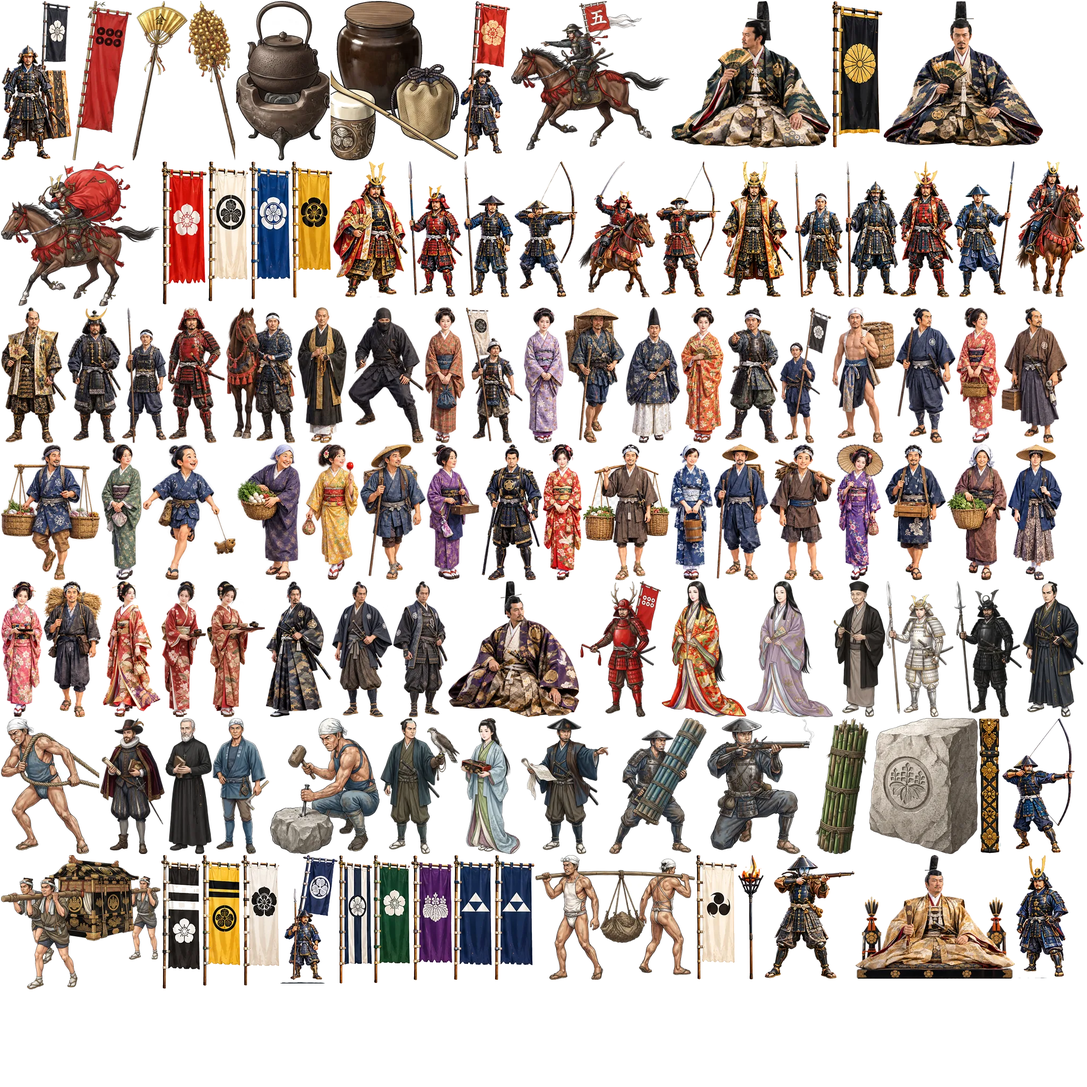
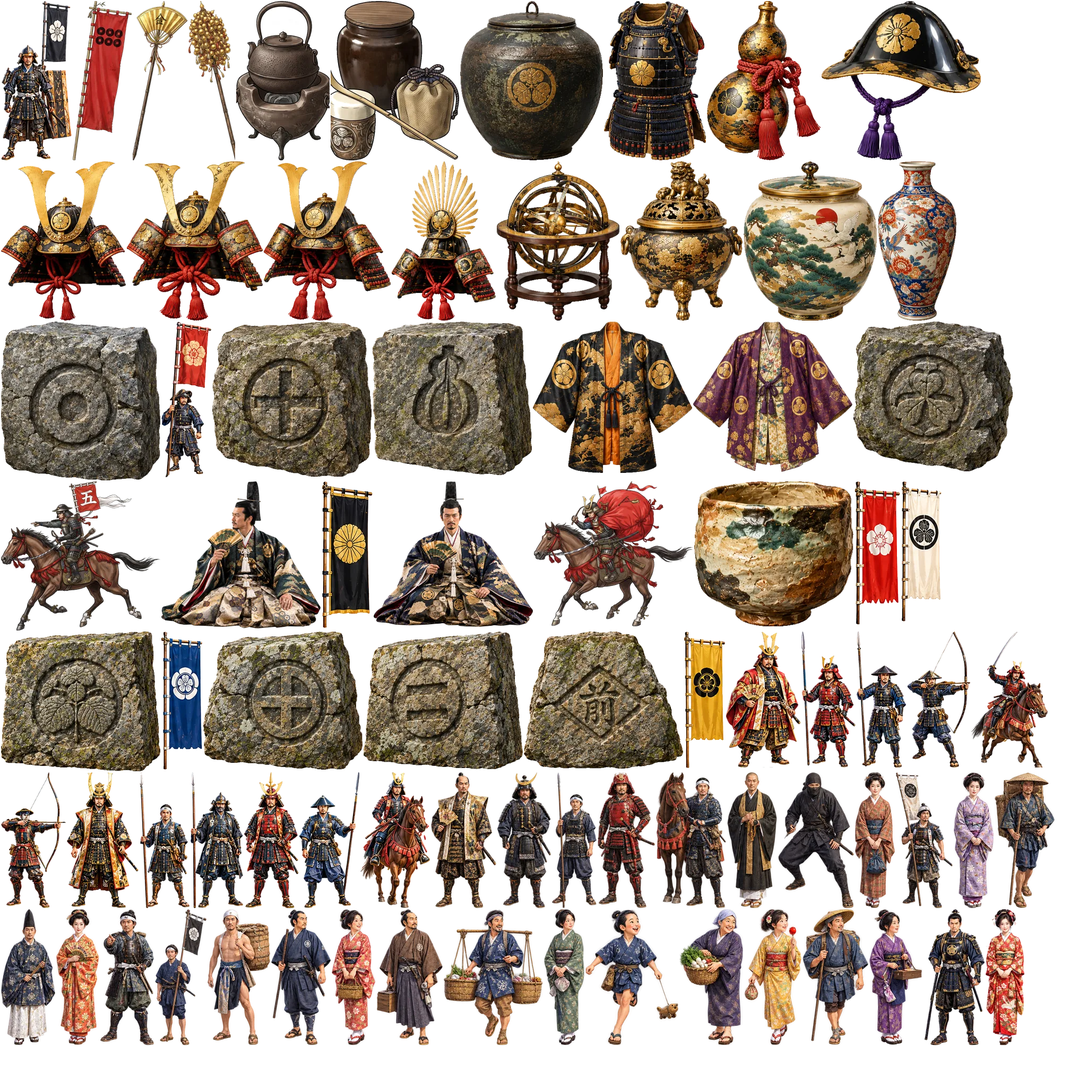
現代の天守閣の展示ケースに展示品36点（屏風・掛軸・絵巻・文書・兜・具足・陣羽織・刀・鉄砲・茶道具・壺・乗物など）、極楽橋の先に刻印石広場（刻印石12点）
Claude-Session: https://claude.ai/code/session_01CbQDmY5EVodmwZ72hpont7

diff --git a/index.html b/index.html
@@ -1923,13 +1923,14 @@ function decorModern(T){ const F=T.FL,cx=T.cx,cz=T.cz;
   { const f=F[1]; /* 受付・売店・シアター */ bx(f,'wood',6,1.1,.9,cx-7,f.y+.55,cz+9,0,null,true); bx(f,'hall',6.2,.06,1.1,cx-7,f.y+1.12,cz+9);
     for(let k=0;k<4;k++){ const z=cz-9+k*3.4; bx(f,'wood',.9,1.8,3,cx-f.w/2+1.4,f.y+.9,z,0,null,true); for(let j=0;j<10;j++) bx(f,'noren',.22,.22,.22,cx-f.w/2+1.4+(rnd()-.5)*.4,f.y+.5+((j/5)|0)*.6+.12,z-1.2+(j%5)*.6,0,pick(FIG_COL)); }
     bx(f,'showcase',9,3.4,.08,cx,f.y+2.2,cz+f.d/2-.42); bx(f,'black',9.4,3.8,.06,cx,f.y+2.2,cz+f.d/2-.38); for(let k=0;k<3;k++) bx(f,'felt',8,.45,.6,cx,f.y+.22,cz+f.d/2-3.4-k*1.4,0,null,true); }
+  { const f=F[2]; /* 大名の乗物と旗の大きな展示ケース */ glassCase(f,cx-4,cz+6.2,4.4,2.2,1.9,0,.15); bx(f,'felt',4.2,.02,2,cx-4,f.y+.16,cz+6.2); }
   { const f=F[2]; /* 兜・陣羽織の試着コーナーと解説パネル */ armor(f,cx+9,cz-8,-Math.PI/2,'#7a2d24','#26406a'); armor(f,cx+9,cz-10.2,-Math.PI/2,'#2f4f3e','#c79f45'); armor(f,cx+9,cz-5.8,-Math.PI/2,'#3b3a52','#9c4126');
     bx(f,'kin',.08,2.6,5,cx+f.w/2-.5,f.y+1.6,cz-8,0); bx(f,'wood',2.4,.45,.5,cx+5.8,f.y+.22,cz-8,0,null,true);
     for(let k=0;k<5;k++) panel(f,cx-11+k*5.2,cz-f.d/2+.45,0,3.6,1.6); for(let k=0;k<3;k++) panel(f,cx-f.w/2+.45,cz-6+k*5.5,Math.PI/2,3.4,1.6); }
   for(const i of [3,4]){ const f=F[i]; /* 収蔵品の展示: 壁際の長い展示ケースと中央の独立ケース */
-    for(const sz of [-1,1]){ const z=cz+sz*(f.d/2-1.15); glassCase(f,cx-1,z,f.w-6,1.1,1.6,0,.6); for(let k=0;k<4;k++) byobu(f,cx-9+k*5.2,z,0,6,.7,1.3,'kin',false); }
+    for(const sz of [-1,1]){ const z=cz+sz*(f.d/2-1.15); glassCase(f,cx-1,z,f.w-6,1.1,1.6,0,.6); bx(f,'felt',f.w-6.2,.02,1,cx-1,f.y+.61,z); }
     for(const [x,z] of [[cx-9,cz-4.5],[cx-9,cz+4.5],[cx+8.5,cz-3]]){ if(i===3){ armor(f,x,z,0,pick(['#7a2d24','#2f4f3e','#3b3a52']),pick(['#c79f45','#26406a']),false); glassCase(f,x,z,1.4,1.4,2.3,0,.08); }
-      else { glassCase(f,x,z,2.6,1.2,1,0,.8); for(let k=0;k<3;k++){ bx(f,'black',2.2,.05,.06,x,f.y+.95+k*.22,z-.3+k*.3); bx(f,'gold',.18,.06,.08,x-.95,f.y+.95+k*.22,z-.3+k*.3); } } }
+      else { glassCase(f,x,z,2.6,1.2,1,0,.8); bx(f,'felt',2.4,.02,1,x,f.y+.81,z); } }
     bx(f,'scroll',1.3,3.2,.04,cx-f.w/2+.42,f.y+2,cz,Math.PI/2); }
   /* 3階・4階: 仕切り壁で展示室を区切り、天井からスポットライト */
   { const f=F[3]; for(const sx of [-1,1]){ bx(f,'mDark',.3,f.h-.4,9,cx+sx*6.6,f.y+(f.h-.4)/2,cz+1,0,null,true); for(let k=-1;k<=1;k++) panel(f,cx+sx*6.85,cz+1+k*3,Math.PI/2,2.2,1.4); }
@@ -2893,6 +2894,8 @@ const SPOTS=[
    toyo:{name:'本丸の唐門',kana:'からもん',text:'本丸の南の入口。このアプリでは、桃山時代らしい唐破風（からはふ）と彫刻、金の飾りを付けた門として再現しています。門の名前やかたちは想像を交えています。',meta:[['再現','想像を交えた復元']]}},
   {id:'takoishi',modernOnly:true,name:'蛸石',kana:'たこいし',at:[-6,62],pos:[-6,74],look:[-6,2.6,56],q:'Takoishi Osaka Castle',
    text:'桜門をくぐった枡形の正面に据えられた、城内で最も大きな石。表面積は畳約36枚分、重さは推定約108トンといわれます。徳川幕府による大坂城の再築の際、備前岡山藩主の池田忠雄が運んだと伝わります。',meta:[['大きさ','畳約36枚分'],['重さ','推定約108トン']]},
+  {id:'kokuin',modernOnly:true,name:'刻印石広場',kana:'こくいんせきひろば',at:[20,-162],pos:[20,-144],look:[20,1.2,-162],q:'Kokuin stone Osaka Castle',
+   text:'極楽橋を渡った先にある広場。徳川幕府が大坂城を築き直したとき（1620〜1629年）、石垣の石は西国などの大名が分担して運び、自分の石だと分かるように印（刻印）を刻みました。ここには、使われずに残った刻印のある石が集められています。○・◎・十字・扇・瓢箪・文字など、印の形は大名ごとにさまざまです。今も城内の石垣のあちこちで刻印を探すことができます。',meta:[['刻印','大名ごとの石の目印'],['時代','徳川の再築（1620〜29年）'],['ほかの見どころ','桜門枡形の蛸石（池田家）・大手門枡形の巨石（加藤家）']]},
   {id:'gokuraku',name:'極楽橋',kana:'ごくらくばし',at:[-24,-116],pos:[-24,-140],look:[-24,1,-110],q:'Gokuraku-bashi Osaka Castle',
    text:'本丸の北側、山里丸と二の丸を結ぶ橋。内堀越しに見上げる天守閣の眺めで人気の場所です。',meta:[['結ぶ所','山里丸 ⇄ 二の丸'],['見どころ','堀越しの天守閣']],
    toyo:{text:'豊臣期の極楽橋は、屋根や唐破風を備えた豪華な橋だったと伝わります。のちに琵琶湖の竹生島（ちくぶしま）へ移され、宝厳寺の唐門になったという説もあります。',meta:[['姿','屋根付きの橋（想像復元）']]}},
@@ -3211,7 +3214,7 @@ addEventListener('resize',sizePost); $('tQual').addEventListener('click',sizePos
 }
 
 /* ================= 切り抜き画像（スプライト）: 人物・装飾品をアトラス画像から並べる ================= */
-const ATLAS_META={"size":2048,"pages":3,"s":{"g_nobori":[0,2,2,133,300,3.0],"nb_rokumon":[0,137,2,111,300,4.2],"kinsen":[0,250,2,103,300,4.2],"sennari":[0,355,2,88,300,4.2],"kama":[0,445,2,176,300,0.35],"chaire":[0,623,2,242,300,0.22],"t_nobori":[0,867,2,94,293,3.4],"tsukaiban":[0,963,2,300,281,2.7],"lord_green":[0,1265,2,300,277,1.25],"nb_black":[0,1567,2,96,276,4.2],"lord_navy":[0,1665,2,300,274,1.25],"horo":[0,2,304,300,273,2.7],"nb_white":[0,304,304,86,270,4.2],"nb_red":[0,392,304,76,264,4.2],"nb_blue":[0,470,304,77,260,4.2],"nb_yellow":[0,549,304,77,257,4.2],"t_hideyori":[0,628,304,140,256,1.75],"t_bushou":[0,770,304,102,256,1.8],"t_yari":[0,874,304,93,256,1.75],"t_yumi":[0,969,304,119,256,1.8],"t_uma":[0,1090,304,144,256,2.5],"r_yumi":[0,1236,304,122,256,1.8],"taisho":[0,1360,304,135,256,1.85],"y_hb":[0,1497,304,94,256,1.75],"y_dark":[0,1593,304,99,256,1.8],"r_bushou":[0,1694,304,102,256,1.85],"ashigaru":[0,1798,304,113,256,1.75],"r_kiba":[0,1913,304,131,256,2.6],"p_lord":[0,2,579,123,256,1.75],"p_kabuto":[0,127,579,101,256,1.8],"p_yari":[0,230,579,84,256,1.75],"p_red":[0,316,579,108,256,1.8],"p_horse":[0,426,579,132,256,2.3],"p_monk":[0,560,579,94,256,1.75],"p_ninja":[0,656,579,143,256,1.6],"p_woman":[0,801,579,75,256,1.6],"p_flag":[0,878,579,107,256,2.6],"p_lav":[0,987,579,75,256,1.6],"p_porter":[0,1064,579,113,256,1.7],"p_noble":[0,1179,579,102,256,1.8],"p_orange":[0,1283,579,81,256,1.6],"p_point":[0,1366,579,101,256,1.75],"p_flagboy":[0,1469,579,97,256,2.4],"p_naked":[0,1568,579,118,256,1.7],"q_ronin":[0,1688,579,112,256,1.75],"q_redw":[0,1802,579,83,256,1.6],"q_merchant":[0,1887,579,124,256,1.75],"q_yoke":[0,2,837,187,256,1.7],"q_green":[0,191,837,76,256,1.6],"q_child":[0,269,837,175,256,1.1],"q_oldw":[0,446,837,120,256,1.5],"q_girl":[0,568,837,108,256,1.45],"q_traveler":[0,678,837,124,256,1.75],"q_purple":[0,804,837,100,256,1.6],"w_samurai":[0,906,837,115,256,1.8],"w_red":[0,1023,837,73,256,1.6],"w_yoke":[0,1098,837,163,256,1.7],"w_bucket":[0,1263,837,80,256,1.55],"w_traveler":[0,1345,837,103,256,1.8],"w_boy":[0,1450,837,124,256,1.3],"w_umbrella":[0,1576,837,90,256,1.7],"w_box":[0,1668,837,114,256,1.7],"w_oldw":[0,1784,837,113,256,1.5],"w_youth":[0,1899,837,102,256,1.75],"w_tray":[0,2,1095,78,256,1.6],"w_straw":[0,82,1095,110,256,1.75],"lady_walk":[0,194,1095,108,256,1.62],"lady_tray":[0,304,1095,84,256,1.6],"lady_tray2":[0,390,1095,109,256,1.6],"sam_kami":[0,501,1095,123,256,1.8],"sam_haori":[0,626,1095,113,256,1.8],"sam_armor":[0,741,1095,102,256,1.8],"lord_purple":[0,845,1095,246,256,1.25],"sanada":[0,1093,1095,152,256,2.3],"yodo":[0,1247,1095,159,256,1.62],"nene":[0,1408,1095,161,256,1.6],"rikyu":[0,1571,1095,97,256,1.68],"kimura":[0,1670,1095,126,256,2.35],"goto":[0,1798,1095,127,256,2.3],"mitsunari":[0,1927,1095,114,256,1.75],"ishibiki":[0,2,1353,185,256,1.55],"nanban":[0,189,1353,121,256,1.85],"frois":[0,312,1353,87,256,1.75],"touryou":[0,401,1353,106,256,1.72],"ishiku":[0,509,1353,206,256,1.25],"takajo":[0,717,1353,149,256,1.75],"jijo":[0,868,1353,112,256,1.6],"bugyo":[0,982,1353,164,256,1.8],"taketaba_a":[0,1148,1353,183,256,1.75],"teppo_k":[0,1333,1353,201,256,1.3],"taketaba":[0,1536,1353,100,256,2.0],"kokuin":[0,1638,1353,204,256,1.0],"pillar_k":[0,1844,1353,42,255,2.4],"k_yumi":[0,1888,1353,137,254,1.8],"kago":[0,2,1611,300,253,2.0],"nb_stripe":[0,304,1611,74,252,4.2],"nb_yel2":[0,380,1611,73,246,4.2],"nb_white2":[0,455,1611,71,246,4.2],"k_nobori":[0,528,1611,108,242,3.4],"nb_green2":[0,638,1611,63,242,4.2],"nb_navyw":[0,703,1611,70,241,4.2],"nb_purple":[0,775,1611,78,236,4.2],"nb_tomoe":[0,855,1611,75,236,4.2],"nb_navy":[0,932,1611,75,236,4.2],"mokko":[0,1009,1611,300,235,1.75],"nb_cross":[0,1311,1611,78,234,4.2],"torch_pole":[0,1391,1611,48,234,2.2],"teppo_a":[0,1441,1611,169,233,1.65],"hideyoshi":[0,1612,1611,300,233,1.3],"k_bushou":[0,1914,1611,99,232,1.8],"nb_green":[1,2,2,71,231,4.2],"nobori_pair":[1,75,2,133,229,3.0],"k_ieyasu":[1,210,2,156,228,1.3],"nb_white_k":[1,368,2,101,227,4],"toro4":[1,471,2,93,227,2.0],"nobori_kid":[1,566,2,71,225,2.8],"kasa":[1,639,2,174,225,2.6],"kuge":[1,815,2,86,224,1.85],"toro2":[1,903,2,70,224,1.9],"k_uma":[1,975,2,178,223,2.5],"onna_musha":[1,1155,2,70,223,1.65],"t_monk":[1,1227,2,102,222,1.75],"k_yari":[1,1331,2,101,217,1.75],"yagura_w":[1,1434,2,124,217,4.5],"toro1":[1,1560,2,56,217,0.9],"yagura_flag":[1,1618,2,120,214,6],"by_pine":[1,2,235,314,214,1.7],"by_sakura":[1,318,235,277,214,1.7],"armor":[1,597,235,110,213,1.5],"toro3":[1,709,235,132,213,2.2],"taore":[1,843,235,300,212,0.75],"samurai_p":[1,1145,235,97,211,1.75],"samurai_a":[1,1244,235,112,211,1.75],"by_crane":[1,1358,235,253,210,1.7],"by_iris":[1,1613,235,190,209,1.7],"samurai_b":[1,1805,235,86,208,1.75],"by_tiger":[1,2,451,180,208,1.7],"chawan":[1,184,451,300,206,0.09],"by_kiri":[1,486,451,224,205,1.7],"t_taitsutsu":[1,712,451,112,204,1.75],"umajirushi":[1,826,451,122,203,3.0],"kagaribi2":[1,950,451,55,202,1.7],"kakejiku":[1,1007,451,77,201,1.6],"t_teppo":[1,1086,451,163,200,1.7],"bell":[1,1251,451,103,200,2.4],"musume_r":[1,1356,451,63,198,1.6],"yari_pair":[1,1421,451,124,197,1.75],"houou":[1,1547,451,196,196,1.4],"yari_a":[1,1745,451,89,194,1.8],"tabisou":[1,1836,451,88,193,1.8],"kuge_g":[1,1926,451,88,193,1.8],"uma_rider":[1,2,661,162,187,2.3],"yagura":[1,166,661,117,187,6],"lan_white":[1,285,661,84,186,0.8],"kabuto":[1,371,661,127,185,0.6],"maku_r":[1,500,661,93,184,1.6],"maku_w":[1,595,661,98,183,1.6],"maku_p":[1,695,661,101,182,1.6],"k_monk":[1,798,661,96,181,1.75],"onna_b":[1,896,661,70,181,1.6],"andon_g":[1,968,661,91,181,0.85],"kagaribi":[1,1061,661,52,179,1.7],"saku":[1,1115,661,199,179,2.2],"lan_red":[1,1316,661,71,178,0.8],"koshi":[1,1389,661,237,178,1.8],"shoji":[1,1628,661,260,177,1.8],"lan_tomoe":[1,1890,661,65,176,0.8],"k_teppo":[1,2,850,153,175,1.7],"shonin":[1,157,850,85,174,1.7],"taiko":[1,244,850,107,170,1.5],"fs_castle":[1,353,850,284,170,1.8],"fs_ume":[1,639,850,241,170,1.8],"fs_pine":[1,882,850,271,170,1.8],"chochin":[1,1155,850,81,170,1.2],"workers":[1,1238,850,211,169,1.8],"okami_p":[1,1451,850,59,169,1.6],"jin_gate":[1,1512,850,219,168,3.4],"teppo_line":[1,1733,850,281,167,1.7],"ninpu":[1,2,1027,72,167,1.65],"oni2":[1,76,1027,187,164,1.0],"ikebana":[1,265,1027,110,163,0.7],"cannon_c":[1,377,1027,275,162,1.9],"roujin":[1,654,1027,85,162,1.65],"andon":[1,741,1027,81,162,0.9],"onigawara":[1,824,1027,187,162,1.2],"wara":[1,1013,1027,91,161,1.7],"miko":[1,1106,1027,61,159,1.6],"bonsai":[1,1169,1027,147,159,0.6],"ishiyama":[1,1318,1027,300,159,1.6],"k_captain":[1,1620,1027,106,158,1.75],"cart":[1,1728,1027,203,158,1.9],"maru_mado":[1,2,1196,152,158,1.2],"log":[1,156,1196,106,155,1.6],"lan_small":[1,264,1196,45,153,1.3],"kg_pair":[1,311,1196,75,152,0.9],"bows":[1,388,1196,70,149,2.0],"mon_board":[1,460,1196,192,149,1.6],"t_yuso":[1,654,1196,204,148,1.9],"gold_uma":[1,860,1196,77,148,2.6],"cabinet":[1,939,1196,101,146,1.0],"ryu_c":[1,1042,1196,197,145,1.0],"t_ninja":[1,1241,1196,122,144,1.4],"ryu":[1,1365,1196,216,144,1.2],"by_small":[1,1583,1196,186,143,1.2],"k_ninja":[1,1771,1196,121,142,1.4],"shelf":[1,1894,1196,146,142,0.9],"shishi":[1,2,1356,167,142,1.2],"saru":[1,171,1356,169,142,0.8],"jar":[1,342,1356,89,141,0.55],"taka":[1,433,1356,92,141,0.7],"t_hoju":[1,527,1356,155,140,1.9],"spears":[1,684,1356,11,140,2.6],"jinmaku":[1,697,1356,300,138,1.8],"vase":[1,999,1356,72,137,0.55],"shura":[1,1073,1356,300,132,1.6],"saku_w":[1,1375,1356,300,131,2.0],"arrows":[1,1677,1356,31,131,1.1],"chest":[1,1710,1356,183,131,0.6],"shishi_c":[1,1895,1356,119,131,0.8],"hana_c":[1,2,1500,128,130,0.8],"ogi":[1,132,1500,190,129,0.55],"houou_c":[1,324,1500,122,129,0.8],"sakamogi":[1,448,1500,300,127,1.7],"tora_c":[1,750,1500,157,127,0.8],"k_hoju":[1,909,1500,236,126,1.8],"k_kago":[1,1147,1500,174,125,2.1],"kodomo":[1,1323,1500,59,125,1.2],"kg_t":[1,1384,1500,35,124,0.9],"kg_pair2":[1,1421,1500,75,124,0.9],"taka_c":[1,1498,1500,143,124,0.8],"rail_k":[1,1643,1500,216,123,0.9],"oni5":[1,2,1632,188,122,0.7],"k_zouhei":[1,192,1632,159,121,1.7],"k_tate":[1,353,1632,176,121,2.2],"box_l":[1,531,1632,150,121,0.5],"kg_door":[1,683,1632,76,121,1.0],"ozutsu":[1,761,1632,300,121,1.4],"guns":[1,1063,1632,85,120,1.6],"machishu":[1,1150,1632,138,117,1.7],"oni6":[1,1290,1632,185,117,0.65],"cannon":[1,1477,1632,199,116,1.1],"k_yuso":[1,1678,1632,140,115,1.9],"kg_plate":[1,1820,1632,65,115,0.8],"flags2":[1,1887,1632,86,114,1.6],"kg_t2":[1,1975,1632,39,114,0.9],"chest_m":[1,2,1756,159,113,0.6],"cart2":[1,163,1756,155,112,1.8],"kadomatsu":[1,320,1756,55,112,1.2],"incense":[1,377,1756,73,111,0.6],"tassel":[1,452,1756,77,111,0.6],"dais":[1,531,1756,158,109,1.2],"oni3":[1,691,1756,161,109,0.8],"pot":[1,854,1756,102,108,0.7],"kouro":[1,958,1756,124,106,0.4],"crane_c":[1,1084,1756,205,105,0.9],"rail_k2":[1,1291,1756,239,104,0.8],"rail_r":[1,1532,1756,186,100,0.8],"kg_panel":[1,1720,1756,127,100,0.8],"lowtable":[1,2,1871,271,97,0.35],"shogi":[1,275,1871,120,97,0.5],"chest_r":[1,397,1871,142,96,0.7],"fence_r":[1,541,1871,157,95,0.9],"barrels":[1,700,1871,150,94,1.2],"kin_byobu":[1,852,1871,130,94,1.4],"chaki":[1,984,1871,165,94,0.25],"table":[1,1151,1871,240,93,0.35],"crates":[1,1393,1871,151,92,1.1],"tray_r":[1,1546,1871,170,91,0.25],"oni4":[1,1718,1871,161,88,0.55],"drumbox":[1,1881,1871,64,87,0.6],"tawara":[1,1947,1871,82,86,0.55],"box_s":[2,2,2,123,86,0.3],"kome":[2,127,2,125,85,1.2],"mon_hana":[2,254,2,82,84,0.6],"oni7":[2,338,2,66,83,0.5],"oni8":[2,406,2,56,83,0.5],"mon_d":[2,464,2,81,82,0.6],"trunk":[2,547,2,114,81,0.6],"mon_sakura":[2,663,2,81,81,0.6],"chest_k":[2,746,2,123,79,0.7],"mon_a":[2,871,2,79,79,0.6],"mon_tomoe":[2,952,2,78,79,0.6],"zabuton_g":[2,1032,2,103,76,0.15],"ranma3":[2,1137,2,512,76,0.6],"mon_c":[2,1651,2,75,76,0.6],"mon_kiku":[2,1728,2,75,76,0.6],"mon_mokko":[2,1805,2,76,76,0.6],"ranma4":[2,2,90,512,75,0.6],"mon_hishi":[2,516,90,75,75,0.6],"bucket":[2,593,90,58,73,0.5],"zabuton_r":[2,653,90,136,73,0.15],"ranma1":[2,791,90,512,73,0.7],"zabuton_p":[2,1305,90,98,71,0.15],"mon_b":[2,1405,90,77,71,0.6],"kg_h":[2,1484,90,172,70,0.35],"ranma2":[2,2,167,512,67,0.6],"ranma7":[2,516,167,265,66,0.45],"ranma8":[2,783,167,270,66,0.45],"ranma5":[2,1055,167,266,65,0.45],"ranma6":[2,1323,167,270,65,0.45],"kumo_c":[2,1595,167,127,64,0.45],"stool":[2,1724,167,94,58,0.45],"kg_h2":[2,1820,167,170,45,0.3],"kg_stud":[2,1992,167,36,39,0.14],"noki_end":[2,2,236,152,37,0.25],"kg_stud3":[2,156,236,34,35,0.14],"kg_stud2":[2,192,236,31,31,0.12]}};
+const ATLAS_META={"size":2048,"pages":3,"s":{"g_nobori":[0,2,2,133,300,3.0],"nb_rokumon":[0,137,2,111,300,4.2],"kinsen":[0,250,2,103,300,4.2],"sennari":[0,355,2,88,300,4.2],"kama":[0,445,2,176,300,0.35],"chaire":[0,623,2,242,300,0.22],"ex_chatsubo":[0,867,2,269,300,0.42],"ex_do":[0,1138,2,192,300,0.7],"ex_hyotan":[0,1332,2,214,300,0.38],"ex_jingasa":[0,1548,2,300,300,0.32],"ex_kabuto1":[0,2,304,235,300,0.55],"ex_kabuto2":[0,239,304,256,300,0.55],"ex_kabuto3":[0,497,304,239,300,0.55],"ex_kabuto_bariin":[0,738,304,196,300,0.62],"ex_konten":[0,936,304,231,300,0.55],"ex_kouro":[0,1169,304,230,300,0.42],"ex_tsubo_matsu":[0,1401,304,251,300,0.42],"ex_vase_imari":[0,1654,304,148,300,0.5],"ki_maru":[0,2,606,300,299,1.1],"t_nobori":[0,304,606,94,293,3.4],"ki_jumonji":[0,400,606,300,292,1.1],"ki_hyotan":[0,702,606,300,289,1.1],"ex_jinbaori1":[0,1004,606,300,285,0.95],"ex_jinbaori2":[0,1306,606,300,283,0.95],"ki_kashiwa":[0,1608,606,300,282,1.1],"tsukaiban":[0,2,907,300,281,2.7],"lord_green":[0,304,907,300,277,1.25],"nb_black":[0,606,907,96,276,4.2],"lord_navy":[0,704,907,300,274,1.25],"horo":[0,1006,907,300,273,2.7],"ex_chawan_oribe":[0,1308,907,300,273,0.16],"nb_white":[0,1610,907,86,270,4.2],"nb_red":[0,1698,907,76,264,4.2],"ki_kiri":[0,2,1190,300,263,1.1],"nb_blue":[0,304,1190,77,260,4.2],"ki_jumonji2":[0,383,1190,300,260,1.1],"ki_nibiki":[0,685,1190,300,259,1.1],"ki_mae":[0,987,1190,300,258,1.1],"nb_yellow":[0,1289,1190,77,257,4.2],"t_hideyori":[0,1368,1190,140,256,1.75],"t_bushou":[0,1510,1190,102,256,1.8],"t_yari":[0,1614,1190,93,256,1.75],"t_yumi":[0,1709,1190,119,256,1.8],"t_uma":[0,1830,1190,144,256,2.5],"r_yumi":[0,2,1455,122,256,1.8],"taisho":[0,126,1455,135,256,1.85],"y_hb":[0,263,1455,94,256,1.75],"y_dark":[0,359,1455,99,256,1.8],"r_bushou":[0,460,1455,102,256,1.85],"ashigaru":[0,564,1455,113,256,1.75],"r_kiba":[0,679,1455,131,256,2.6],"p_lord":[0,812,1455,123,256,1.75],"p_kabuto":[0,937,1455,101,256,1.8],"p_yari":[0,1040,1455,84,256,1.75],"p_red":[0,1126,1455,108,256,1.8],"p_horse":[0,1236,1455,132,256,2.3],"p_monk":[0,1370,1455,94,256,1.75],"p_ninja":[0,1466,1455,143,256,1.6],"p_woman":[0,1611,1455,75,256,1.6],"p_flag":[0,1688,1455,107,256,2.6],"p_lav":[0,1797,1455,75,256,1.6],"p_porter":[0,1874,1455,113,256,1.7],"p_noble":[0,2,1713,102,256,1.8],"p_orange":[0,106,1713,81,256,1.6],"p_point":[0,189,1713,101,256,1.75],"p_flagboy":[0,292,1713,97,256,2.4],"p_naked":[0,391,1713,118,256,1.7],"q_ronin":[0,511,1713,112,256,1.75],"q_redw":[0,625,1713,83,256,1.6],"q_merchant":[0,710,1713,124,256,1.75],"q_yoke":[0,836,1713,187,256,1.7],"q_green":[0,1025,1713,76,256,1.6],"q_child":[0,1103,1713,175,256,1.1],"q_oldw":[0,1280,1713,120,256,1.5],"q_girl":[0,1402,1713,108,256,1.45],"q_traveler":[0,1512,1713,124,256,1.75],"q_purple":[0,1638,1713,100,256,1.6],"w_samurai":[0,1740,1713,115,256,1.8],"w_red":[0,1857,1713,73,256,1.6],"w_yoke":[1,2,2,163,256,1.7],"w_bucket":[1,167,2,80,256,1.55],"w_traveler":[1,249,2,103,256,1.8],"w_boy":[1,354,2,124,256,1.3],"w_umbrella":[1,480,2,90,256,1.7],"w_box":[1,572,2,114,256,1.7],"w_oldw":[1,688,2,113,256,1.5],"w_youth":[1,803,2,102,256,1.75],"w_tray":[1,907,2,78,256,1.6],"w_straw":[1,987,2,110,256,1.75],"lady_walk":[1,1099,2,108,256,1.62],"lady_tray":[1,1209,2,84,256,1.6],"lady_tray2":[1,1295,2,109,256,1.6],"sam_kami":[1,1406,2,123,256,1.8],"sam_haori":[1,1531,2,113,256,1.8],"sam_armor":[1,1646,2,102,256,1.8],"lord_purple":[1,1750,2,246,256,1.25],"sanada":[1,2,260,152,256,2.3],"yodo":[1,156,260,159,256,1.62],"nene":[1,317,260,161,256,1.6],"rikyu":[1,480,260,97,256,1.68],"kimura":[1,579,260,126,256,2.35],"goto":[1,707,260,127,256,2.3],"mitsunari":[1,836,260,114,256,1.75],"ishibiki":[1,952,260,185,256,1.55],"nanban":[1,1139,260,121,256,1.85],"frois":[1,1262,260,87,256,1.75],"touryou":[1,1351,260,106,256,1.72],"ishiku":[1,1459,260,206,256,1.25],"takajo":[1,1667,260,149,256,1.75],"jijo":[1,1818,260,112,256,1.6],"bugyo":[1,2,518,164,256,1.8],"taketaba_a":[1,168,518,183,256,1.75],"teppo_k":[1,353,518,201,256,1.3],"taketaba":[1,556,518,100,256,2.0],"kokuin":[1,658,518,204,256,1.0],"ex_hata":[1,864,518,130,256,1.6],"ex_hideyoshi_zo":[1,996,518,157,256,1.5],"ex_kakejiku_castle":[1,1155,518,128,256,1.5],"pillar_k":[1,1285,518,42,255,2.4],"k_yumi":[1,1329,518,137,254,1.8],"ki_umebachi":[1,1468,518,300,254,1.1],"kago":[1,2,776,300,253,2.0],"nb_stripe":[1,304,776,74,252,4.2],"ex_chawan_gold":[1,380,776,270,248,0.16],"nb_yel2":[1,652,776,73,246,4.2],"nb_white2":[1,727,776,71,246,4.2],"ex_sensu_kiri":[1,800,776,300,245,0.32],"ex_kawara":[1,1102,776,300,244,0.3],"k_nobori":[1,1404,776,108,242,3.4],"nb_green2":[1,1514,776,63,242,4.2],"nb_navyw":[1,1579,776,70,241,4.2],"ex_sensu_tsuru":[1,1651,776,300,239,0.32],"ex_monjo":[1,2,1031,300,237,0.3],"ki_naka":[1,304,1031,300,237,1.1],"ki_uroko":[1,606,1031,300,237,1.1],"nb_purple":[1,908,1031,78,236,4.2],"nb_tomoe":[1,988,1031,75,236,4.2],"nb_navy":[1,1065,1031,75,236,4.2],"ki_sanbo":[1,1142,1031,300,236,1.1],"mokko":[1,1444,1031,300,235,1.75],"nb_cross":[1,1746,1031,78,234,4.2],"torch_pole":[1,1826,1031,48,234,2.2],"teppo_a":[1,1876,1031,169,233,1.65],"hideyoshi":[1,2,1270,300,233,1.3],"k_bushou":[1,304,1270,99,232,1.8],"nb_green":[1,405,1270,71,231,4.2],"nobori_pair":[1,478,1270,133,229,3.0],"k_ieyasu":[1,613,1270,156,228,1.3],"ex_hako_tsuru":[1,771,1270,300,228,0.4],"nb_white_k":[1,1073,1270,101,227,4],"toro4":[1,1176,1270,93,227,2.0],"nobori_kid":[1,1271,1270,71,225,2.8],"kasa":[1,1344,1270,174,225,2.6],"kuge":[1,1520,1270,86,224,1.85],"toro2":[1,1608,1270,70,224,1.9],"k_uma":[1,1680,1270,178,223,2.5],"onna_musha":[1,1860,1270,70,223,1.65],"t_monk":[1,1932,1270,102,222,1.75],"ex_byobu_castle":[1,2,1505,300,219,1.25],"k_yari":[1,304,1505,101,217,1.75],"yagura_w":[1,407,1505,124,217,4.5],"toro1":[1,533,1505,56,217,0.9],"yagura_flag":[1,591,1505,120,214,6],"by_pine":[1,713,1505,314,214,1.7],"by_sakura":[1,1029,1505,277,214,1.7],"armor":[1,1308,1505,110,213,1.5],"toro3":[1,1420,1505,132,213,2.2],"taore":[1,1554,1505,300,212,0.75],"samurai_p":[1,1856,1505,97,211,1.75],"samurai_a":[1,2,1726,112,211,1.75],"by_crane":[1,116,1726,253,210,1.7],"ex_hako_kiri":[1,371,1726,300,210,0.38],"by_iris":[1,673,1726,190,209,1.7],"samurai_b":[1,865,1726,86,208,1.75],"by_tiger":[1,953,1726,180,208,1.7],"chawan":[1,1135,1726,300,206,0.09],"by_kiri":[1,1437,1726,224,205,1.7],"t_taitsutsu":[1,1663,1726,112,204,1.75],"umajirushi":[1,1777,1726,122,203,3.0],"kagaribi2":[1,1901,1726,55,202,1.7],"kakejiku":[1,1958,1726,77,201,1.6],"t_teppo":[2,2,2,163,200,1.7],"bell":[2,167,2,103,200,2.4],"musume_r":[2,272,2,63,198,1.6],"ex_byobu_sakura":[2,337,2,300,198,1.25],"yari_pair":[2,639,2,124,197,1.75],"houou":[2,765,2,196,196,1.4],"yari_a":[2,963,2,89,194,1.8],"tabisou":[2,1054,2,88,193,1.8],"kuge_g":[2,1144,2,88,193,1.8],"ex_byobu_castle2":[2,1234,2,300,189,1.25],"uma_rider":[2,1536,2,162,187,2.3],"yagura":[2,1700,2,117,187,6],"lan_white":[2,1819,2,84,186,0.8],"kabuto":[2,1905,2,127,185,0.6],"maku_r":[2,2,204,93,184,1.6],"maku_w":[2,97,204,98,183,1.6],"maku_p":[2,197,204,101,182,1.6],"k_monk":[2,300,204,96,181,1.75],"onna_b":[2,398,204,70,181,1.6],"andon_g":[2,470,204,91,181,0.85],"kagaribi":[2,563,204,52,179,1.7],"saku":[2,617,204,199,179,2.2],"lan_red":[2,818,204,71,178,0.8],"koshi":[2,891,204,237,178,1.8],"ex_emaki1":[2,1130,204,300,178,0.32],"shoji":[2,1432,204,260,177,1.8],"lan_tomoe":[2,1694,204,65,176,0.8],"k_teppo":[2,1761,204,153,175,1.7],"shonin":[2,1916,204,85,174,1.7],"ex_emaki2":[2,2,390,300,173,0.32],"taiko":[2,304,390,107,170,1.5],"fs_castle":[2,413,390,284,170,1.8],"fs_ume":[2,699,390,241,170,1.8],"fs_pine":[2,942,390,271,170,1.8],"chochin":[2,1215,390,81,170,1.2],"ex_norimono":[2,1298,390,300,170,1.25],"workers":[2,1600,390,211,169,1.8],"okami_p":[2,1813,390,59,169,1.6],"jin_gate":[2,2,565,219,168,3.4],"teppo_line":[2,223,565,281,167,1.7],"ninpu":[2,506,565,72,167,1.65],"oni2":[2,580,565,187,164,1.0],"ikebana":[2,769,565,110,163,0.7],"cannon_c":[2,881,565,275,162,1.9],"roujin":[2,1158,565,85,162,1.65],"andon":[2,1245,565,81,162,0.9],"onigawara":[2,1328,565,187,162,1.2],"wara":[2,1517,565,91,161,1.7],"miko":[2,1610,565,61,159,1.6],"bonsai":[2,1673,565,147,159,0.6],"ishiyama":[2,2,735,300,159,1.6],"k_captain":[2,304,735,106,158,1.75],"cart":[2,412,735,203,158,1.9],"maru_mado":[2,617,735,152,158,1.2],"log":[2,771,735,106,155,1.6],"lan_small":[2,879,735,45,153,1.3],"kg_pair":[2,926,735,75,152,0.9],"bows":[2,1003,735,70,149,2.0],"mon_board":[2,1075,735,192,149,1.6],"t_yuso":[2,1269,735,204,148,1.9],"gold_uma":[2,1475,735,77,148,2.6],"ex_katana1":[2,1554,735,300,147,0.42],"cabinet":[2,1856,735,101,146,1.0],"ryu_c":[2,2,896,197,145,1.0],"t_ninja":[2,201,896,122,144,1.4],"ryu":[2,325,896,216,144,1.2],"ex_byobu_kassen":[2,543,896,300,144,1.25],"by_small":[2,845,896,186,143,1.2],"k_ninja":[2,1033,896,121,142,1.4],"shelf":[2,1156,896,146,142,0.9],"shishi":[2,1304,896,167,142,1.2],"saru":[2,1473,896,169,142,0.8],"jar":[2,1644,896,89,141,0.55],"taka":[2,1735,896,92,141,0.7],"t_hoju":[2,1829,896,155,140,1.9],"spears":[2,1986,896,11,140,2.6],"jinmaku":[2,2,1043,300,138,1.8],"vase":[2,304,1043,72,137,0.55],"ex_teppo":[2,378,1043,300,137,0.38],"ex_katana2":[2,680,1043,300,133,0.42],"shura":[2,982,1043,300,132,1.6],"saku_w":[2,1284,1043,300,131,2.0],"arrows":[2,1586,1043,31,131,1.1],"chest":[2,1619,1043,183,131,0.6],"shishi_c":[2,1804,1043,119,131,0.8],"hana_c":[2,2,1183,128,130,0.8],"ogi":[2,132,1183,190,129,0.55],"houou_c":[2,324,1183,122,129,0.8],"sakamogi":[2,448,1183,300,127,1.7],"tora_c":[2,750,1183,157,127,0.8],"k_hoju":[2,909,1183,236,126,1.8],"k_kago":[2,1147,1183,174,125,2.1],"kodomo":[2,1323,1183,59,125,1.2],"kg_t":[2,1384,1183,35,124,0.9],"kg_pair2":[2,1421,1183,75,124,0.9],"taka_c":[2,1498,1183,143,124,0.8],"rail_k":[2,1643,1183,216,123,0.9],"oni5":[2,2,1315,188,122,0.7],"ex_katana3":[2,192,1315,300,122,0.42],"k_zouhei":[2,494,1315,159,121,1.7],"k_tate":[2,655,1315,176,121,2.2],"box_l":[2,833,1315,150,121,0.5],"kg_door":[2,985,1315,76,121,1.0],"ozutsu":[2,1063,1315,300,121,1.4],"guns":[2,1365,1315,85,120,1.6],"machishu":[2,1452,1315,138,117,1.7],"oni6":[2,1592,1315,185,117,0.65],"cannon":[2,1779,1315,199,116,1.1],"k_yuso":[2,2,1439,140,115,1.9],"kg_plate":[2,144,1439,65,115,0.8],"flags2":[2,211,1439,86,114,1.6],"kg_t2":[2,299,1439,39,114,0.9],"chest_m":[2,340,1439,159,113,0.6],"cart2":[2,501,1439,155,112,1.8],"kadomatsu":[2,658,1439,55,112,1.2],"incense":[2,715,1439,73,111,0.6],"tassel":[2,790,1439,77,111,0.6],"dais":[2,869,1439,158,109,1.2],"oni3":[2,1029,1439,161,109,0.8],"pot":[2,1192,1439,102,108,0.7],"kouro":[2,1296,1439,124,106,0.4],"crane_c":[2,1422,1439,205,105,0.9],"rail_k2":[2,1629,1439,239,104,0.8],"rail_r":[2,2,1556,186,100,0.8],"kg_panel":[2,190,1556,127,100,0.8],"lowtable":[2,319,1556,271,97,0.35],"shogi":[2,592,1556,120,97,0.5],"chest_r":[2,714,1556,142,96,0.7],"fence_r":[2,858,1556,157,95,0.9],"barrels":[2,1017,1556,150,94,1.2],"kin_byobu":[2,1169,1556,130,94,1.4],"chaki":[2,1301,1556,165,94,0.25],"table":[2,1468,1556,240,93,0.35],"crates":[2,1710,1556,151,92,1.1],"tray_r":[2,1863,1556,170,91,0.25],"oni4":[2,2,1658,161,88,0.55],"drumbox":[2,165,1658,64,87,0.6],"tawara":[2,231,1658,82,86,0.55],"box_s":[2,315,1658,123,86,0.3],"kome":[2,440,1658,125,85,1.2],"mon_hana":[2,567,1658,82,84,0.6],"oni7":[2,651,1658,66,83,0.5],"oni8":[2,719,1658,56,83,0.5],"mon_d":[2,777,1658,81,82,0.6],"trunk":[2,860,1658,114,81,0.6],"mon_sakura":[2,976,1658,81,81,0.6],"chest_k":[2,1059,1658,123,79,0.7],"mon_a":[2,1184,1658,79,79,0.6],"mon_tomoe":[2,1265,1658,78,79,0.6],"zabuton_g":[2,1345,1658,103,76,0.15],"ranma3":[2,1450,1658,512,76,0.6],"mon_c":[2,1964,1658,75,76,0.6],"mon_kiku":[2,2,1748,75,76,0.6],"mon_mokko":[2,79,1748,76,76,0.6],"ranma4":[2,157,1748,512,75,0.6],"mon_hishi":[2,671,1748,75,75,0.6],"bucket":[2,748,1748,58,73,0.5],"zabuton_r":[2,808,1748,136,73,0.15],"ranma1":[2,946,1748,512,73,0.7],"zabuton_p":[2,1460,1748,98,71,0.15],"mon_b":[2,1560,1748,77,71,0.6],"kg_h":[2,1639,1748,172,70,0.35],"ranma2":[2,2,1826,512,67,0.6],"ranma7":[2,516,1826,265,66,0.45],"ranma8":[2,783,1826,270,66,0.45],"ranma5":[2,1055,1826,266,65,0.45],"ranma6":[2,1323,1826,270,65,0.45],"kumo_c":[2,1595,1826,127,64,0.45],"stool":[2,1724,1826,94,58,0.45],"kg_h2":[2,1820,1826,170,45,0.3],"kg_stud":[2,1992,1826,36,39,0.14],"noki_end":[2,2,1895,152,37,0.25],"kg_stud3":[2,156,1895,34,35,0.14],"kg_stud2":[2,192,1895,31,31,0.12]}};
 
 const ATL={tex:[],ok:false}; { const tl=new THREE.TextureLoader(); for(let i=0;i<ATLAS_META.pages;i++){ const t=tl.load('assets/atlas'+i+'.webp',()=>{ ATL.loaded=(ATL.loaded||0)+1; }); t.encoding=THREE.sRGBEncoding; t.anisotropy=4; ATL.tex.push(t); } }
 function sprInfo(n){ const m=ATLAS_META.s[n]; if(!m) return null; const P=ATLAS_META.size; return {page:m[0],u:m[1]/P,v:1-(m[2]+m[4])/P,uw:m[3]/P,vh:m[4]/P,h:m[5],aspect:m[3]/m[4]}; }
@@ -3362,9 +3365,22 @@ function keepSpot0(T,f,x,z,r){ const L=T.FL.indexOf(f),ok=(xx,zz)=>walkFloor(L,x
   at(F[5],'bonsai',-F[5].w/2+1.1,-2,.8); at(F[5],'sam_kami',3,1.5,0,{},true); at(F[5],'ogi',-1,-4.2,.4,{s:.8});
   at(F[6],'taka',-6,-2,0,{},true); at(F[6],'kabuto',-6,2,0,{s:.9},true); }
 /* 現代の天守閣: 展示ケースの中の品々 */
-{ const T=TEN.modern,F=T.FL,cx=T.cx,cz=T.cz,C=decoRoomM; for(const [s,x,z] of [['vase',-9,-4.5],['jar',-9,4.5],['kabuto',8.5,-3]]) C.add(s,cx+x,F[4].y+.82,cz+z,{s:.9,shadow:false});
-  C.add('kabuto',cx+6,F[2].y,cz-8,{s:1}); C.add('by_kiri',cx,F[5].y+.05,cz-F[5].d/2+1.6,{yaw:0,s:1.3}); }
+{ const T=TEN.modern,F=T.FL,cx=T.cx,cz=T.cz,C=decoRoomM;
+  /* 壁際の長い展示ケース: 品物を等間隔に並べる（奥の壁側は手前を向け、反対側は向きを逆に） */
+  const row=(L,list,sz)=>{ const f=F[L],z=cz+sz*(f.d/2-1.15),len=f.w-7,n=list.length; list.forEach((nm,i)=>{ const x=cx-1-len/2+len*(i+.5)/n; C.add(nm,x,f.y+.62,z+sz*.05,{yaw:sz<0?0:Math.PI,shadow:false,s:1.35}); }); };
+  row(3,['ex_byobu_castle','ex_byobu_sakura','ex_byobu_castle2','ex_byobu_kassen'],-1);
+  row(3,['ex_hideyoshi_zo','ex_kakejiku_castle','ex_emaki1','ex_monjo','ex_emaki2','ex_sensu_kiri','ex_sensu_tsuru'],1);
+  row(4,['ex_kabuto_bariin','ex_kabuto1','ex_do','ex_kabuto2','ex_jinbaori1','ex_kabuto3','ex_jinbaori2','ex_jingasa'],-1);
+  row(4,['ex_katana1','ex_teppo','ex_katana2','ex_hako_kiri','ex_kouro','ex_hako_tsuru','ex_katana3','ex_kawara'],1);
+  /* 独立ケース（4階）: 茶道具と壺、渾天儀 */
+  for(const [x,z,list] of [[-9,-4.5,['ex_chawan_gold','ex_chatsubo','ex_chawan_oribe']],[-9,4.5,['ex_vase_imari','ex_tsubo_matsu','ex_hyotan']],[8.5,-3,['ex_konten']]]) list.forEach((nm,i)=>C.add(nm,cx+x+(i-(list.length-1)/2)*.8,F[4].y+.82,cz+z,{shadow:false,s:1.5}));
+  /* 2階: 大名の乗物と旗 */ C.add('ex_norimono',cx-4.9,F[2].y+.17,cz+6.2,{shadow:false}); C.add('ex_hata',cx-2.6,F[2].y+.17,cz+6.2,{shadow:false});
+   C.add('by_kiri',cx,F[5].y+.05,cz-F[5].d/2+1.6,{yaw:0,s:1.3}); }
 
+/* 刻印石広場（現代）: 極楽橋を渡った先、二の丸の北に、石垣の普請で使われなかった刻印のある石が並ぶ */
+{ const C=new Crowd(GM,40,true),oc=curSet; curSet=BSETS.modern; const KI=['ki_hyotan','ki_kashiwa','ki_naka','ki_maru','ki_sanbo','ki_jumonji','ki_kiri','ki_mae','ki_umebachi','ki_nibiki','ki_uroko','ki_jumonji2'];
+  KI.forEach((n,i)=>{ const x=2+(i%6)*7.2+((i/6|0)?3.2:0),z=-158-(i/6|0)*8,s=1.25+((i*37)%5)*.1; C.add(n,x,0,z,{s}); block(x-1.1*s,z-.7,x+1.1*s,z+.7,'castle'); });
+  const sg=labelSprite('刻印石広場','大名の印が刻まれた石'); sg.position.set(20,4.2,-150); GM.add(sg); DOOR_MARKS.push({sp:sg,base:4.2,era:'modern',x:20,z:-150}); curSet=oc; }
 /* タップで話す */
 const _pv=V3();
 function pickTalk(sx,sy){ let best=null,bd=1e9; for(const t of TALK){ if(t.it.hidden) continue; if(t.era!==MODE) continue; if(t.daily&&SCEN) continue; if(t.scen&&t.scen!==SCEN) continue; if(t.room&&P.room!==t.room) continue;
